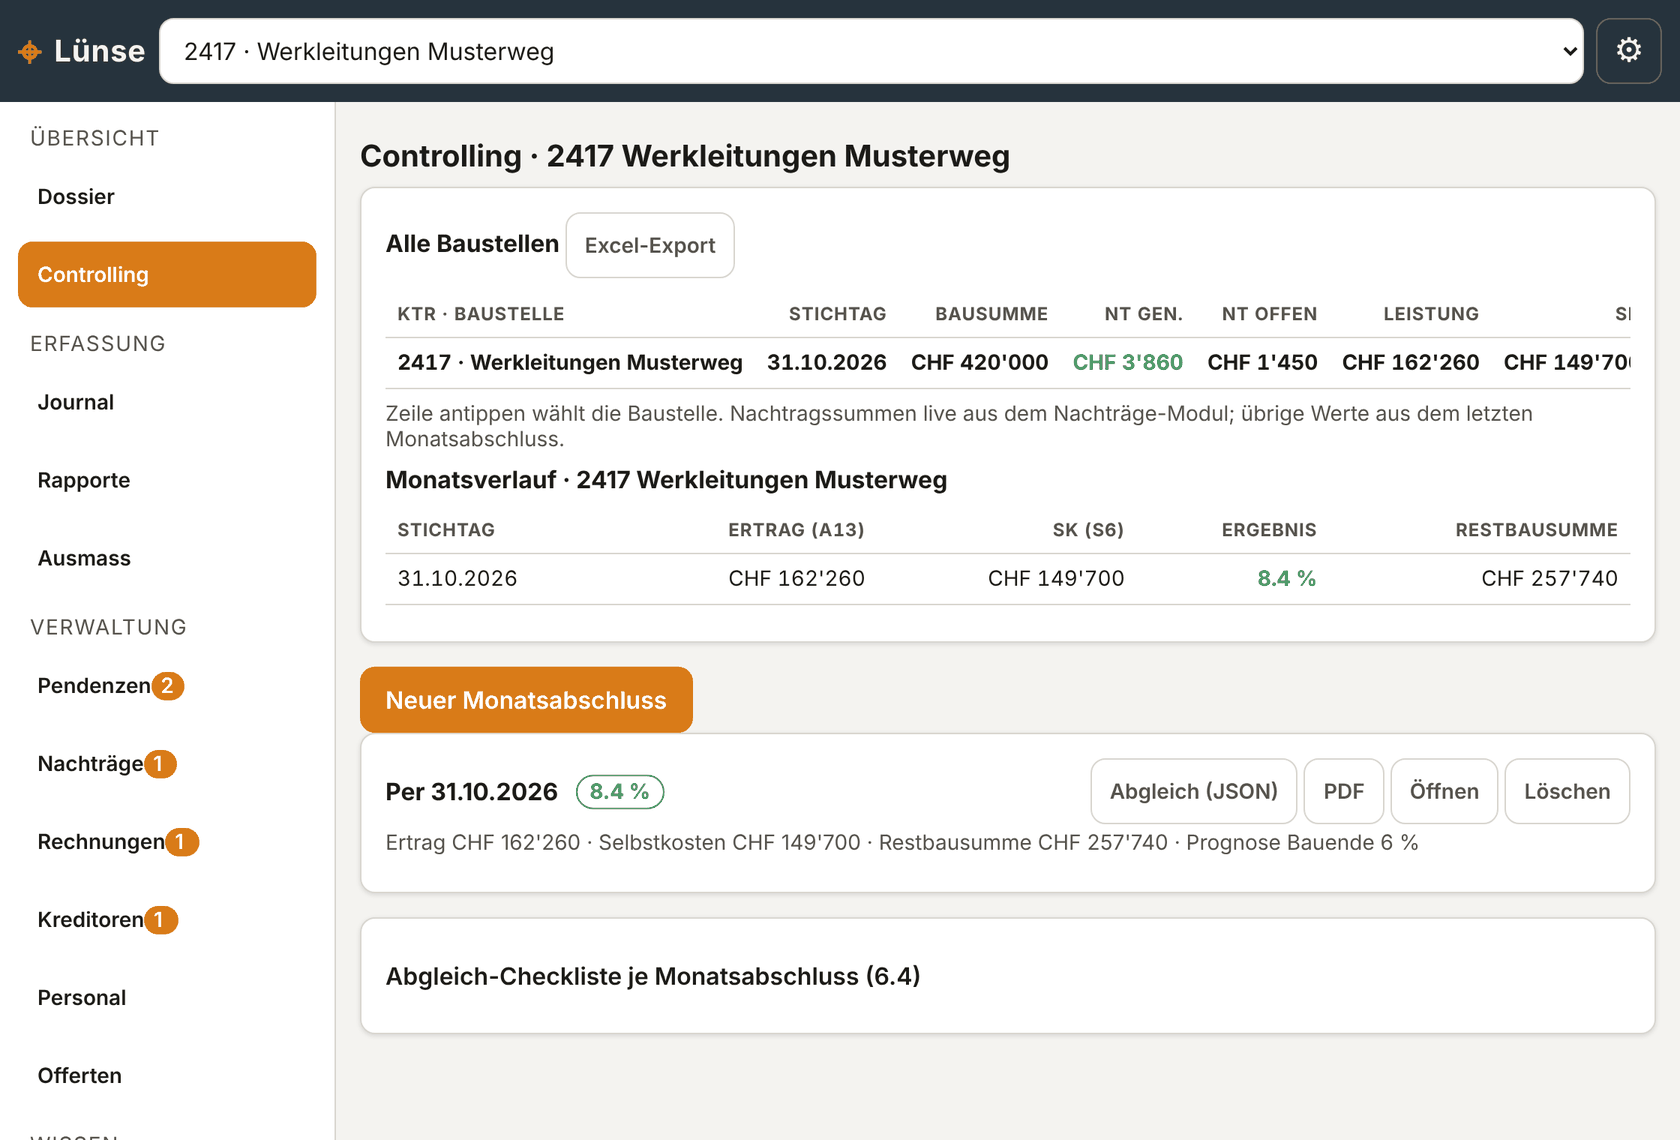
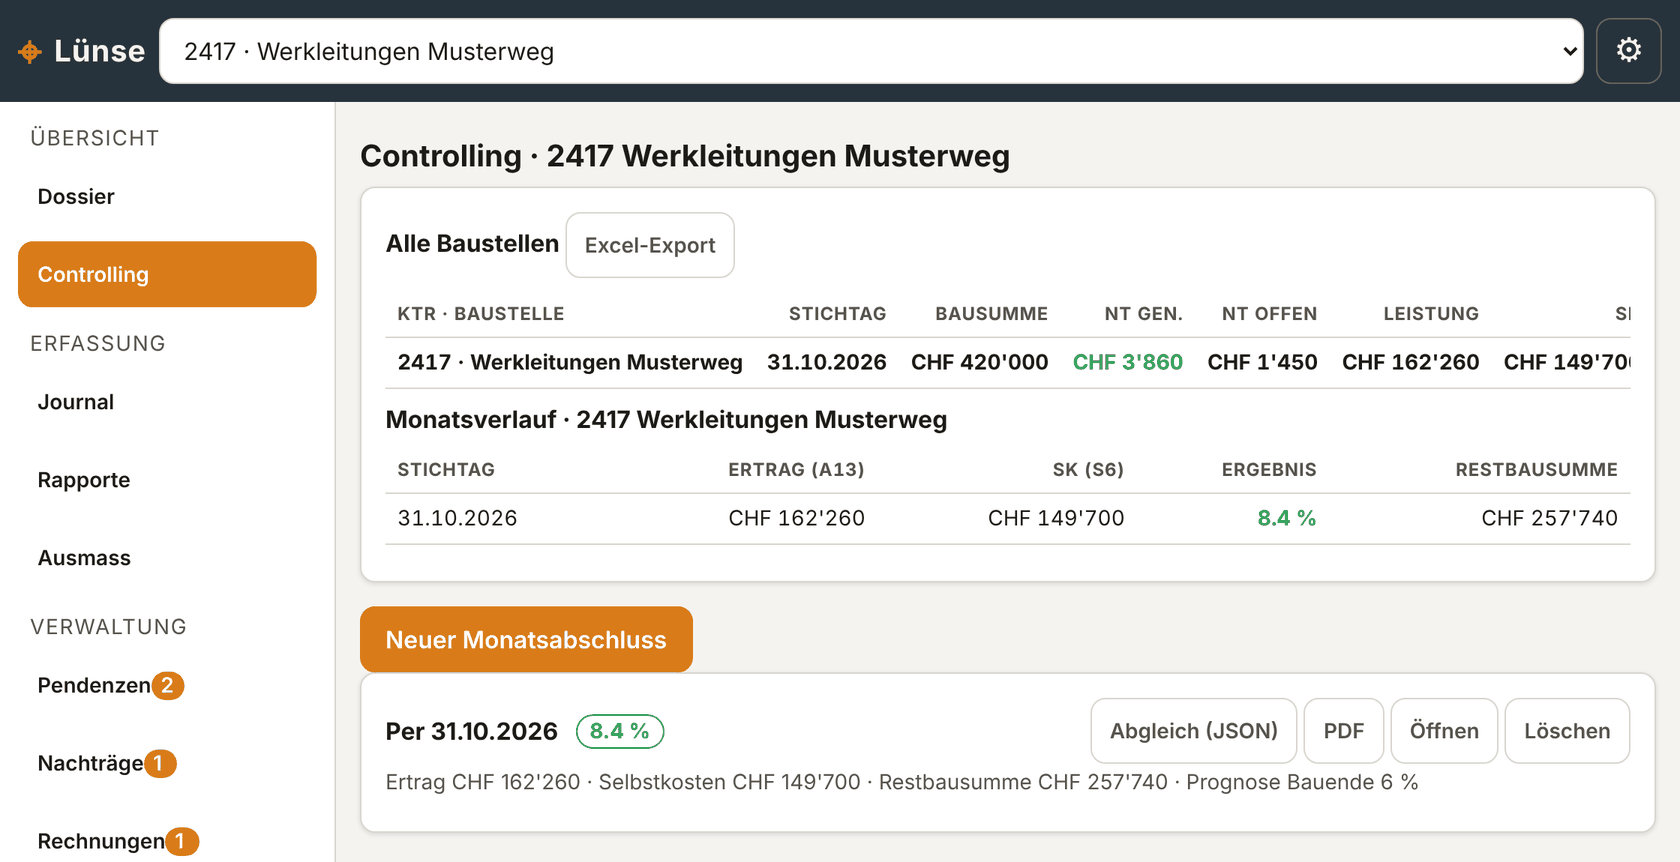
Controlling-Bild: zwei weitere interne Hinweise entfernt
Claude-Session: https://claude.ai/code/session_01UctUBGiJyEb257nv4V6b2d

diff --git a/index.html b/index.html
@@ -430,7 +430,7 @@ footer a:hover{color:var(--orange)}
           <h3>Controlling je Monat</h3>
           <p>Monatsabschluss mit Vorschlägen aus Rechnungen und Kreditoren. Ertrag, Selbstkosten, Ergebnis und Restbausumme je Baustelle, ohne Abtippen.</p>
         </div>
-        <figure class="browser"><div class="browser-bar"><i></i><i></i><i></i></div><img src="bilder/buero-controlling.png" alt="Controlling mit Monatsabschluss, Ertrag, Selbstkosten und Ergebnis je Baustelle" width="1120" height="760" loading="lazy"></figure>
+        <figure class="browser"><div class="browser-bar"><i></i><i></i><i></i></div><img src="bilder/buero-controlling.png" alt="Controlling mit Monatsabschluss, Ertrag, Selbstkosten und Ergebnis je Baustelle" width="1120" height="575" loading="lazy"></figure>
       </div>
     </div>
   </section>
